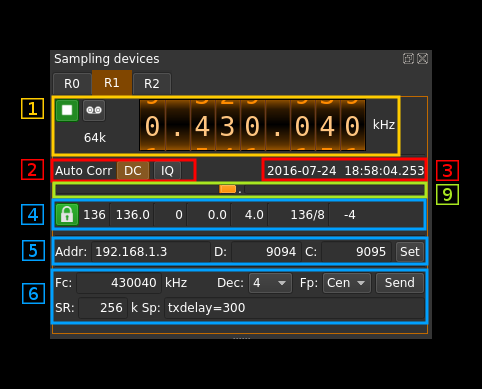
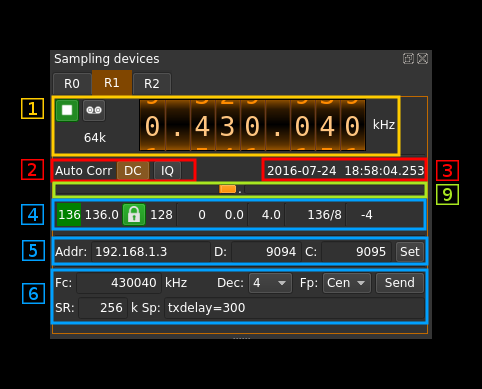
SDRdaemonFEC plugin: further improve stats display on GUI and updated readme accordingly

Changed region(s): [[0.0934, 0.5244, 0.3734, 0.5861], [0.4046, 0.5244, 0.5913, 0.5861], [0.6224, 0.5244, 0.778, 0.5861]]

diff --git a/plugins/samplesource/sdrdaemonfec/sdrdaemonfecinput.h b/plugins/samplesource/sdrdaemonfec/sdrdaemonfecinput.h
@@ -167,6 +167,7 @@ public:
 		uint32_t get_tv_sec() const { return m_tv_sec; }
 		uint32_t get_tv_usec() const { return m_tv_usec; }
 		int getFramesDecodingStatus() const { return m_framesDecodingStatus; }
+		bool allBlocksReceived() const { return m_allBlocksReceived; }
 		float getBufferLengthInSecs() const { return m_bufferLenSec; }
         int32_t getBufferGauge() const { return m_bufferGauge; }
         int getMinNbBlocks() const { return m_minNbBlocks; }
@@ -183,6 +184,7 @@ public:
 				float bufferLenSec,
                 int32_t bufferGauge,
                 int framesDecodingStatus,
+                bool allBlocksReceived,
                 int minNbBlocks,
                 int minNbOriginalBlocks,
                 int maxNbRecovery,
@@ -197,6 +199,7 @@ public:
 					bufferLenSec,
                     bufferGauge,
                     framesDecodingStatus,
+                    allBlocksReceived,
                     minNbBlocks,
                     minNbOriginalBlocks,
                     maxNbRecovery,
@@ -211,6 +214,7 @@ public:
 		uint32_t m_tv_sec;
 		uint32_t m_tv_usec;
 		int      m_framesDecodingStatus;
+		bool     m_allBlocksReceived;
 		float    m_bufferLenSec;
         int32_t  m_bufferGauge;
         int      m_minNbBlocks;
@@ -227,6 +231,7 @@ public:
 				float bufferLenSec,
                 int32_t bufferGauge,
                 int framesDecodingStatus,
+                bool allBlocksReceived,
                 int minNbBlocks,
                 int minNbOriginalBlocks,
                 int maxNbRecovery,
@@ -239,6 +244,7 @@ public:
 			m_tv_sec(tv_sec),
 			m_tv_usec(tv_usec),
 			m_framesDecodingStatus(framesDecodingStatus),
+			m_allBlocksReceived(allBlocksReceived),
 			m_bufferLenSec(bufferLenSec),
             m_bufferGauge(bufferGauge),
             m_minNbBlocks(minNbBlocks),

diff --git a/plugins/samplesource/sdrdaemonfec/sdrdaemonfecgui.cpp b/plugins/samplesource/sdrdaemonfec/sdrdaemonfecgui.cpp
@@ -288,6 +288,7 @@ bool SDRdaemonFECGui::handleMessage(const Message& message)
 		m_startingTimeStamp.tv_sec = ((SDRdaemonFECInput::MsgReportSDRdaemonFECStreamTiming&)message).get_tv_sec();
 		m_startingTimeStamp.tv_usec = ((SDRdaemonFECInput::MsgReportSDRdaemonFECStreamTiming&)message).get_tv_usec();
 		m_framesDecodingStatus = ((SDRdaemonFECInput::MsgReportSDRdaemonFECStreamTiming&)message).getFramesDecodingStatus();
+		m_allBlocksReceived = ((SDRdaemonFECInput::MsgReportSDRdaemonFECStreamTiming&)message).allBlocksReceived();
 		m_bufferLengthInSecs = ((SDRdaemonFECInput::MsgReportSDRdaemonFECStreamTiming&)message).getBufferLengthInSecs();
         m_bufferGauge = ((SDRdaemonFECInput::MsgReportSDRdaemonFECStreamTiming&)message).getBufferGauge();
         m_minNbBlocks = ((SDRdaemonFECInput::MsgReportSDRdaemonFECStreamTiming&)message).getMinNbBlocks();
@@ -623,6 +624,12 @@ void SDRdaemonFECGui::updateWithStreamTime()
 
     s = QString::number(m_minNbBlocks, 'f', 0);
     ui->minNbBlocksText->setText(tr("%1").arg(s));
+
+    if (m_allBlocksReceived) {
+        ui->minNbBlocksText->setStyleSheet("QLabel { background-color : green; }");
+    } else {
+        ui->minNbBlocksText->setStyleSheet("QLabel { background:rgb(56,56,56); }");
+    }
 
     s = QString::number(m_avgNbBlocks, 'f', 1);
     ui->avgNbBlocksText->setText(tr("%1").arg(s));

diff --git a/plugins/samplesource/sdrdaemonfec/sdrdaemonfecudphandler.cpp b/plugins/samplesource/sdrdaemonfec/sdrdaemonfecudphandler.cpp
@@ -238,6 +238,7 @@ void SDRdaemonFECUDPHandler::tick()
 			m_sdrDaemonBuffer.getBufferLengthInSecs(),
             m_sdrDaemonBuffer.getBufferGauge(),
             framesDecodingStatus,
+            minNbBlocks == nbOriginalBlocks + nbFECblocks,
             minNbBlocks,
             minNbOriginalBlocks,
             m_sdrDaemonBuffer.getMaxNbRecovery(),

diff --git a/plugins/samplesource/sdrdaemonfec/sdrdaemonfecgui.h b/plugins/samplesource/sdrdaemonfec/sdrdaemonfecgui.h
@@ -65,6 +65,7 @@ private:
 	quint64 m_centerFrequency;
 	struct timeval m_startingTimeStamp;
 	int m_framesDecodingStatus;
+	bool m_allBlocksReceived;
 	float m_bufferLengthInSecs;
     int32_t m_bufferGauge;
     int m_minNbBlocks;

diff --git a/plugins/samplesource/sdrdaemonfec/readme.md b/plugins/samplesource/sdrdaemonfec/readme.md
@@ -63,39 +63,43 @@ The system tries to compensate read / write unbalance however at start or when a
 
 ![SDR Daemon FEC status1 GUI](../../../doc/img/SDRdaemonFEC_plugin_04.png)
 
-<h4>4.1: Stream status</h4>
+<h4>4.1: Minimum total number of blocks per frame</h4>
+
+This is the minimum total number of blocks per frame during the last polling period. If all blocks were received for all frames then this number is the nominal number of original blocks plus FEC blocks and the background lits in green.
+
+<h4>4.2: Average total number of blocks received by frame</h4>
+
+Moving average over the last 10 frames of the total number of blocks received per frame.
+
+<h4>4.3: Stream status</h4>
 
 The color of the icon indicates stream status:
 
   - Green: all original blocks have been received for all frames during the last polling timeframe
-  - Magenta/Pink: some original blocks were reconstructed from FEC blocks for some frames during the last polling timeframe
+  - Pink: some original blocks were reconstructed from FEC blocks for some frames during the last polling timeframe
   - No color: some original blocks were definitely lost for some frames during the last polling timeframe
 
-<h4>4.2: Minimum number of blocks received by frame</h4>
+<h4>4.4: Minimum number of original blocks received by frame</h4>
 
-Minimum number of blocks received by frame during the last polling timeframe. Ideally this should match the nominal number of blocks per frame (see 4.7) for no lost blocks (green lock icon).
+Minimum number of original blocks received by frame during the last polling timeframe. Ideally this should match the nominal number of original blocks per frame which is 128 (green lock icon). Anything below the nominal number of original blocks minus FEC blocks means data loss (lock icon off). In betweem FEC is used to recover lost blocks (pink lock icon)
 
-<h4>4.3: Average number of blocks received by frame</h4>
+<h4>4.5: Maximum number of FEC blocks used by frame</h4>
 
-Moving average over the last 10 frames of the number of blocks received per frame.
+Maximum number of FEC blocks used for original blocks recovery during the last polling timeframe. Ideally this should be 0 when no blocks are lost but the system is able to correct lost blocks up to the nominal number of FEC blocks (Pink lock icon).
 
-<h4>4.4: Maximum number of FEC blocks used by frame</h4>
-
-Maximum number of FEC blocks used for original blocks recovery during the last polling timeframe. Ideally this should be 0 when no blocks are lost but the system is able to correct lost blocks up to the nominal number of FEC blocks (Magenta/Pink lock icon).
-
-<h4>4.5: Average number of FEC blocks used for original blocks recovery by frame</h4>
+<h4>4.6: Average number of FEC blocks used for original blocks recovery by frame</h4>
 
 Moving average over the last 10 frames of the number of FEC blocks used for original blocks recovery per frame.
 
-<h4>4.6: Receive buffer length</h4>
+<h4>4.7: Receive buffer length</h4>
 
 This is the main buffer (writes from UDP / reads from DSP engine) length in units of time (seconds). As read and write pointers are normally about half the buffer apart the nominal delay introduced by the buffer is the half of this value.
 
-<h4>4.7: FEC nominal values</h4>
+<h4>4.8: FEC nominal values</h4>
 
 This is the nominal (Tx side) total number of blocks sent by frame (original blocks plus FEC blocks) and the nominal number of FEC blocks sent by frame separated by a slash (/)
 
-<h4>4.8: Main buffer R/W pointers positions</h4>
+<h4>4.9: Main buffer R/W pointers positions</h4>
 
 Read and write pointers should always be a half buffer distance buffer apart. This is the difference in percent of the main buffer size from this ideal position.
 
